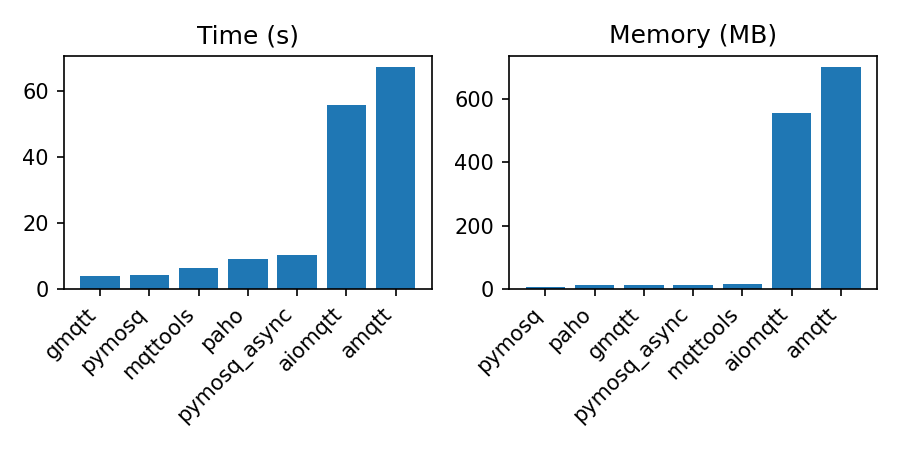
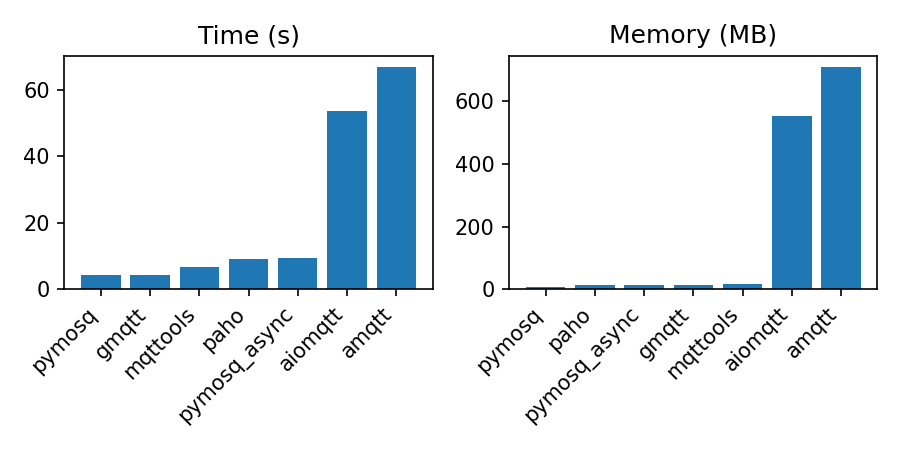
some optimization and refactoring

diff --git a/pymosquitto/aio.py b/pymosquitto/aio.py
@@ -12,6 +12,7 @@ class AsyncClient(Mosquitto):
     def __init__(self, *args, loop=None, **kwargs):
         super().__init__(*args, **kwargs)
         self._loop = loop or asyncio.get_event_loop()
+        self._fd = None
         self._misc_task = None
         self._cond = asyncio.Condition()
         self._conn_rc = None
@@ -61,6 +62,7 @@ class AsyncClient(Mosquitto):
             self._misc_task = None
         self._messages.put_nowait(None)
         self._loop.create_task(self._setattr("_disconn_rc", rc))
+        self._fd = None
 
     def _on_publish(self, mosq, userdata, mid):
         self._resolve_future(self._pub_mids, mid, mid)
@@ -84,15 +86,15 @@ class AsyncClient(Mosquitto):
         async with self._cond:
             self._conn_rc = None
             super().connect(*args, **kwargs)
-            fd = self.socket()
-            if fd:
-                self._loop.add_reader(fd, self._loop_read)
+            self._fd = self.socket()
+            if self._fd:
+                self._loop.add_reader(self._fd, self._loop_read)
             else:
                 raise RuntimeError("No socket")
 
             await self._cond.wait_for(lambda: self._conn_rc is not None)
             if self._conn_rc != ConnackCode.ACCEPTED:
-                self._loop.remove_reader(fd)
+                self._loop.remove_reader(self._fd)
                 raise ConnectionError(connack_string(self._conn_rc))
 
             self._misc_task = self._loop.create_task(self.misc_loop())
@@ -126,11 +128,11 @@ class AsyncClient(Mosquitto):
         await fut
         return mid
 
-    async def recv_messages(self):
+    async def read_messages(self):
         while True:
             msg = await self._messages.get()
             if msg is None:
-                break
+                return
             yield msg
 
     def _loop_read(self):
@@ -142,15 +144,13 @@ class AsyncClient(Mosquitto):
             self._check_writable()
 
     def _check_writable(self):
-        if self.want_write():
-            fd = self.socket()
-            if fd:
+        if self._fd and self.want_write():
 
-                def cb():
-                    self.loop_write()
-                    self._loop.remove_writer(fd)
+            def cb():
+                self.loop_write()
+                self._loop.remove_writer(self._fd)
 
-                self._loop.add_writer(fd, cb)
+            self._loop.add_writer(self._fd, cb)
 
     async def misc_loop(self):
         while True:

diff --git a/pymosquitto/bindings.py b/pymosquitto/bindings.py
@@ -269,15 +269,11 @@ class MosquittoError(Exception):
         return f"{self.func.__name__} failed: {self.code}/{strerror(self.code)}"
 
 
-def call_errno(func, *args):
-    C.set_errno(0)
-    ret = func(*args)
-    return ret, C.get_errno()
-
-
 def call(func, *args, use_errno=False):
     if use_errno:
-        ret, err = call_errno(func, *args)
+        C.set_errno(0)
+        ret = func(*args)
+        err = C.get_errno()
         if err != 0:
             raise OSError(err, os.strerror(err))
         return ret
@@ -286,8 +282,9 @@ def call(func, *args, use_errno=False):
 
 def mosq_call(func, *args, use_errno=False):
     if use_errno:
-        ret, err = call_errno(func, *args)
-        if ret == ErrorCode.ERRNO and err != 0:
+        ret = func(*args)
+        if ret == ErrorCode.ERRNO:
+            err = C.get_errno()
             raise OSError(err, os.strerror(err))
     else:
         ret = func(*args)

diff --git a/benchmarks/pymosq_async/sub.py b/benchmarks/pymosq_async/sub.py
@@ -18,7 +18,7 @@ async def main():
     async with Client(logger=logger) as client:
         await client.connect(c.HOST, c.PORT)
         await client.subscribe(c.TOPIC, c.QOS)
-        async for _ in client.recv_messages():
+        async for _ in client.read_messages():
             count += 1
             if count == c.LIMIT:
                 print("DONE")

diff --git a/tests/test_client.py b/tests/test_client.py
@@ -5,7 +5,7 @@ from types import SimpleNamespace
 import pytest
 
 from pymosquitto.bindings import MosquittoError
-from pymosquitto.client import Client
+from pymosquitto import Client
 from pymosquitto import constants as c
 
 

diff --git a/pymosquitto/__init__.py b/pymosquitto/__init__.py
@@ -1,0 +1,1 @@
+from .client import Client  # noqa

diff --git a/README.md b/README.md
@@ -48,7 +48,7 @@ async def main():
     async with AsyncMQTTClient() as client:
         await client.connect("localhost", 1883)
         await client.subscribe("#", 1)
-        async for msg in client.recv_messages():
+        async for msg in client.read_messages():
             print(msg)
 
 
@@ -74,13 +74,13 @@ Losers excluded:
 
 ```text
 Module;Time;RSS
-pymosq;0:04.33;18128
-pymosq_async;0:10.34;24868
-paho;0:09.15;23392
-gmqtt;0:03.90;24724
-mqttools;0:06.55;27860
-aiomqtt;0:55.72;576700
-amqtt;1:07.35;725708
+pymosq;0:04.26;18316
+pymosq_async;0:09.36;24852
+paho;0:09.06;23556
+gmqtt;0:04.33;25176
+mqttools;0:06.72;28116
+aiomqtt;0:53.69;578288
+amqtt;1:06.86;736724
 ```
 
 
